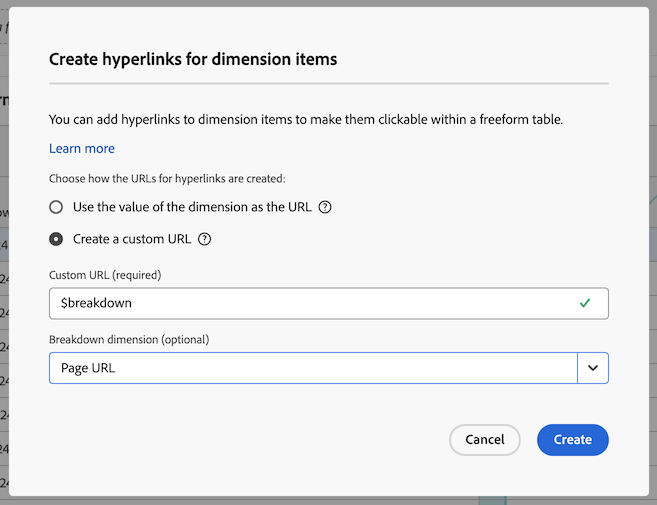
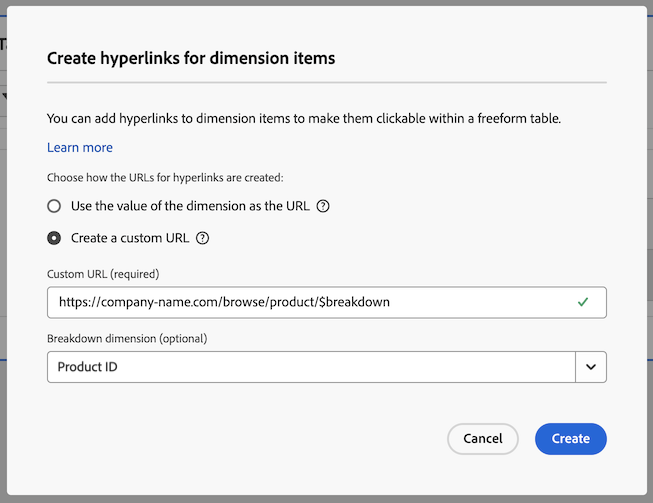
updates

diff --git a/help/analysis-workspace/visualizations/freeform-table/freeform-table-hyperlinks.md b/help/analysis-workspace/visualizations/freeform-table/freeform-table-hyperlinks.md
@@ -24,19 +24,19 @@ This functionality is particularly useful when adding hyperlinks to the followin
 
    <!-- add screenshot -->
 
-   * **Add hyperlinks to all dimension items in a column:** Right-click the dimension name in the column header.
+   * **Add hyperlinks to all dimension items in a dimension column:** Right-click the dimension name in the dimension column header.
 
    <!-- add screenshot -->
 
 1. Select [!UICONTROL **Add hyperlink**] from the right-click menu.
 
-   The [!UICONTROL **Create hyperlinks for dimension items**] dialog is displayed.
+   The [!UICONTROL **Create hyperlinks for dimension items**] dialog is displayed. If you are adding a hyperlink to a single dimension item, the name of the dimension item is listed in the dialog title. 
 
    ![Add hyperlinks dialog](assets/table-hyperlinks-default.png)
 
 1. Choose from the following options:
 
-   * [!UICONTROL **Use the value of the dimension as the URL**]: Choose this option for dimension items that have URL values, such as a Page URL dimension. 
+   * [!UICONTROL **Use the value of the dimension item as the URL**]: Choose this option for dimension items that have URL values, such as a Page URL dimension. 
    
      For example, if you are using a Page URL dimension where the value of each dimension item is a URL, then selecting this option creates a hyperlink to the URL.
 
@@ -50,13 +50,18 @@ This functionality is particularly useful when adding hyperlinks to the followin
 
       |Field | Description | 
       |---------|----------|
-      | [!UICONTROL **Custom URL**] | Specify a custom URL that you want to use for the hyperlink. URLs must be entered as fully qualified URLs. For example: https://www.example.com<p>The custom URL that you add can be static or dynamic:</p> <ul><li>**Static URLs:** If you are adding a hyperlink to an individual dimension item, a static URL might be sufficient. <p>For example, if you have a Page Name dimension item, you can add a static URL that links users to the specific web page that you want to associate with the page name.</p></li><li>**Dynamic URLs:** If you are adding a hyperlink to multiple dimension items or to all dimension items in a dimension column, then a dynamic URL is probably more practical. <p>To make custom URLs dynamic, you include variables within the URL that allow the URL to dynamically change based on the value of the dimension itself, or the value of the breakdown dimension.</p><p>The following variables are available:</p> <ul><li>**`$value`:** Allows you to insert the value of the dimension item into the URL that you specify. <p>Consider the following scenario as an example:</p><p>Suppose that you want to add hyperlinks to multiple Page Name dimension items, where the value of each dimension item is part of a webpage's URL. In this case, you can construct a single custom URL that dynamically adjusts for each dimension item. </p><p>You can accomplish this by adding the `$value` variable to the end of the custom URL that you specify. For example:</p> <p>https://company-name.com/browse/product#$value</p><p>When this custom URL is applied to your Page Name dimension items whose values are "ProductY" and "ProductZ", the generated hyperlinks would look something like this: </p><p>https://company-name.com/browse/product#ProductY</p><p>and</p><p> https://company-name.com/browse/product#ProductZ. </p><p>![use values in hyperlinks](assets/table-hyperlinks-vaule.png)</p></li><li>**`$breakdown`:** Allows you to insert the value of the breakdown dimension item into the URL that you specify. The breakdown dimension is the dimension that you specify in the [!UICONTROL **Breakdown dimension**] field below. <p>Consider the example scenario described for the [!UICONTROL **Breakdown dimension**] field below.</p></li></ul>   | 
-      | [!UICONTROL **Breakdown dimension (optional)**] | Begin typing the name of the breakdown dimension that you want to use, then select it from the drop-down list. <p>If you select a breakdown dimension in this field, you must reference it by using the `$breakdown` variable in the URL that you specify in the [!UICONTROL **Custom URL**] field.</p><p>Consider the following scenario as an example:</p><p>Suppose that you want to add hyperlinks to multiple Page Name dimension items, and each dimension item contains a breakdown of a Page URL dimension. In this case, you can create hyperlinks on the value of the Page Name dimensions by referencing the Page URL breakdown dimension</p><p>You can accomplish this by specifying `$breakdown` in the [!UICONTROL **Custom URL**] field, and then selecting the Page URL dimension in the [!UICONTROL **Breakdown dimension**] field. </p><p>![use breakdowns in hyperlinks](assets/table-hyperlinks-breakdown.png)</p> | 
+      | [!UICONTROL **Custom URL**] | Specify a custom URL that you want to use for the hyperlink. URLs must be entered as fully qualified URLs. For example: https://www.example.com<p>The custom URL that you add can be static or dynamic:</p> <ul><li>**Static URLs:** If you are adding a hyperlink to an individual dimension item, a static URL might be sufficient. <p>For example, if you have a Page Name dimension item, you can add a static URL that links users to the specific web page that you want to associate with the page name.</p></li><li>**Dynamic URLs:** If you are adding a hyperlink to multiple dimension items or to all dimension items in a dimension column, then a dynamic URL is probably more practical. <p>To make custom URLs dynamic, you include variables within the URL that allow the URL to dynamically change based on the value of the dimension itself, or the value of the breakdown dimension.</p><p>The following variables are available:</p> <ul><li>**`$value`:** Allows you to insert the value of the dimension item into the URL that you specify. <p>Consider the following scenario as an example:</p><p>Suppose that you want to add hyperlinks to all Page Name dimension items in a freeform table, where the value of each dimension item is part of a webpage's URL. In this case, you can construct a single custom URL that dynamically adjusts for each dimension item. </p><p>You can accomplish this by adding the `$value` variable to the end of the custom URL that you specify. For example:</p> <p>https://company-name.com/browse/product#$value</p><p>When this custom URL is applied to your Page Name dimension items whose values are "ProductY" and "ProductZ", the generated hyperlinks would look something like this: </p><p>https://company-name.com/browse/product#ProductY</p><p>and</p><p> https://company-name.com/browse/product#ProductZ. </p><p>![use values in hyperlinks](assets/table-hyperlinks-vaule.png)</p></li><li>**`$breakdown`:** Allows you to insert the value of the breakdown dimension item into the URL that you specify. This allows you to show a user-friendly name in your report while creating the hyperlink based on a breakdown dimension that might be less user-friendly, such as an ID or URL. <p>The breakdown dimension is the dimension that you specify in the [!UICONTROL **Breakdown dimension**] field below.</p> <p>Consider the example scenario described for the [!UICONTROL **Breakdown dimension**] field below.</p></li></ul>   | 
+      | [!UICONTROL **Breakdown dimension (optional)**] | Begin typing the name of the breakdown dimension that you want to use, then select it from the drop-down list. <p>If you select a breakdown dimension in this field, you must reference it by using the `$breakdown` variable in the URL that you specify in the [!UICONTROL **Custom URL**] field.</p><p>Consider the following scenario as an example:</p><p>Suppose that you want to create hyperlinks for all Product Name dimension items in a freeform table. Each Product Name dimension item contains a breakdown of a Product ID dimension.</p></p>In this case, you can create hyperlinks to each Product Name dimension that directs users to the product page by using the value of the Product ID breakdown dimension. </p><p>You can accomplish this by adding the `$breakdown` variable to the end of the custom URL that you specify in the [!UICONTROL **Custom URL**] field. For example:</p><p>https://company-name.com/browse/product/$breakdown</p><p>When this custom URL is applied to your Product Name dimension items that have breakdown dimension items whose values are "ProductY" and "ProductZ", the generated hyperlinks would look something like this:</p><p>https://company-name.com/browse/product/ProductY</p><p>and</p><p>https://company-name.com/browse/product/ProductZ</p><p>You would then select the Product ID dimension in the [!UICONTROL **Breakdown dimension**] field </p><p>![use breakdowns in hyperlinks](assets/table-hyperlinks-breakdown.png)</p> | 
 
 1. Select [!UICONTROL **Create**].
 
    Users who view the freeform table see the hyperlinked dimension items. When clicking a dimension item, users are taken to the hyperlinked pages that you added. Hyperlinked pages are launched in a separate browser tab. <!--true?-->
  
-   <!-- add screenshot of a table with hyperlinks.>
+   <!-- add screenshot of a table with hyperlinks.-->
+
+## Edit hyperlinks
+
+
+## Delete hyperlinks
 
 
